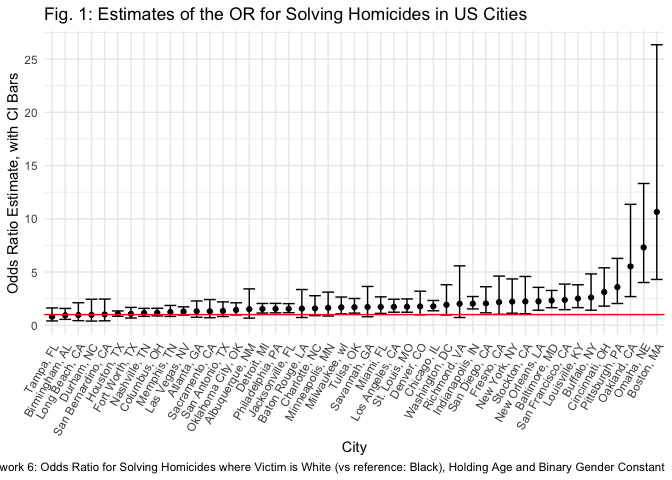
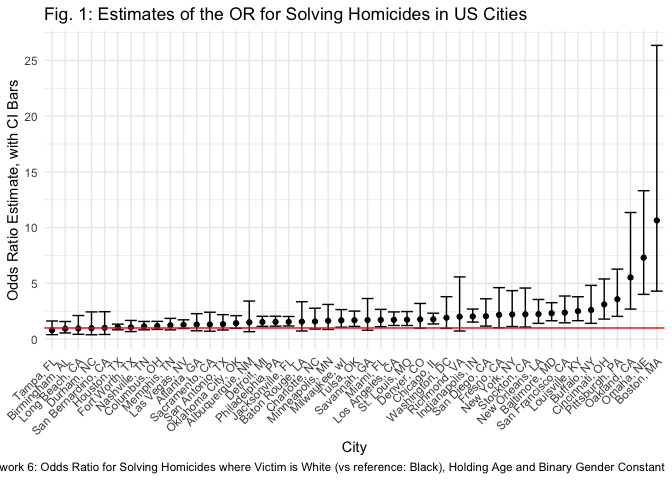
minor changes to p1 (comments for legibility, revising. going to revisit p2 with margaret's reply now

diff --git a/p8105_hw6_eh2928.md b/p8105_hw6_eh2928.md
@@ -24,16 +24,21 @@ homicide_df =
   select(city_state, resolution, victim_age, victim_race, victim_sex)
 ```
 
-Start with a regression for just one city, Baltimore, MD.
+Start with a regression for just one city, Baltimore, MD. Observe the
+estimate and the lower and upper confidence intervals of the adjusted
+odds ratio for solvign homicides comparing Blsck victims to white
+victims.
 
 ``` r
 baltimore_df =
   homicide_df %>% 
   filter(city_state == "Baltimore, MD")
 
-glm(resolution ~ victim_age + victim_race + victim_sex, 
+baltimore_fit = glm(resolution ~ victim_age + victim_race + victim_sex, 
     data = baltimore_df,
-    family = binomial()) %>% 
+    family = binomial()) 
+
+baltimore_fit %>% 
   broom::tidy() %>% 
   mutate(
     OR = exp(estimate),
@@ -55,7 +60,10 @@ glm(resolution ~ victim_age + victim_race + victim_sex,
 | victim\_raceWhite |        2.320        |  1.648   |  3.268   |
 |  victim\_sexMale  |        0.426        |  0.325   |  0.558   |
 
-Now, let’s run this across multiple cities (all of the 47 remaining).
+Now, let’s run this GLM across multiple cities (all of the 47
+remaining), and similarly extract the adjusted odds ratio (and CI) for
+solving homicides comparing Black victims to white victims. We do this
+tidily, using purr::map, list columns, and unnesting.
 
 ``` r
 models_results_df = 
@@ -76,7 +84,7 @@ models_results_df =
   select(city_state, term, OR, starts_with("CI")) 
 ```
 
-Plot the resultant ORs and CIs of the logistic regression.
+Now, let’s plot the resultant ORs and CIs of the logistic regression.
 
 ``` r
 models_results_df %>% 
@@ -86,7 +94,7 @@ models_results_df %>%
   geom_point() + 
   geom_errorbar(aes(ymin = CI_lower, ymax = CI_upper)) + 
   geom_hline(yintercept = 1, color = "red") +
-  theme(axis.text.x = element_text(angle = 60, vjust = 1, hjust = 1)) +
+  theme(axis.text.x = element_text(angle = 45, vjust = 1, hjust = 1)) +
   scale_y_continuous(breaks = seq(0, 30, 5)) +
   labs(
     title = "Fig. 1: Estimates of the OR for Solving Homicides in US Cities",
@@ -111,7 +119,9 @@ is prioritized in our society.
 
 # Problem Two
 
-Load and tidy the data for model fitting.
+Load and tidy the birthweight data for model fitting. Includes changing
+converting numeric to factor, and selecting to remove the empty/missing
+data variables.
 
 ``` r
 birthweight_df = 
@@ -124,9 +134,21 @@ birthweight_df =
   ungroup() %>% 
   select(bwt, babysex, bhead, blength, gaweeks, malform, ppbmi, ppwt, delwt, wtgain, mheight, momage, mrace, menarche, frace, fincome, parity, pnumlbw, pnumsga, smoken) %>% 
   select(-pnumlbw, -pnumsga)
-
-summary(birthweight_df)
 ```
+
+Let’s take a quick look.
+
+``` r
+summary(birthweight_df)
+
+birthweight_df %>% 
+  ggplot(aes(x = bwt)) + 
+  geom_histogram()
+```
+
+    ## `stat_bin()` using `bins = 30`. Pick better value with `binwidth`.
+
+<img src="p8105_hw6_eh2928_files/figure-gfm/plot-1.png" width="90%" />
 
 Fit a regression model and plot the model residuals against fitted
 values, using the original data frame. We’ll scale this into the
